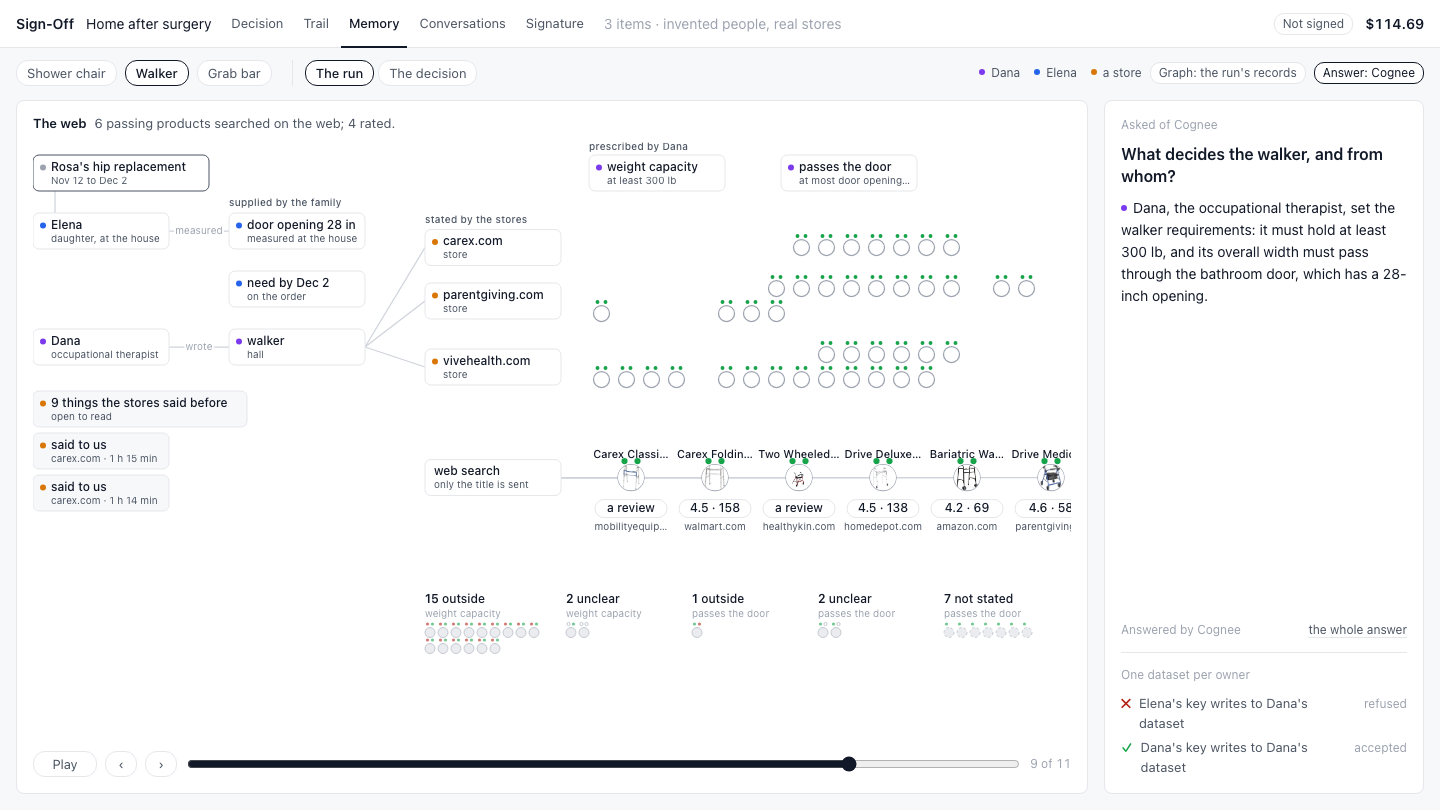
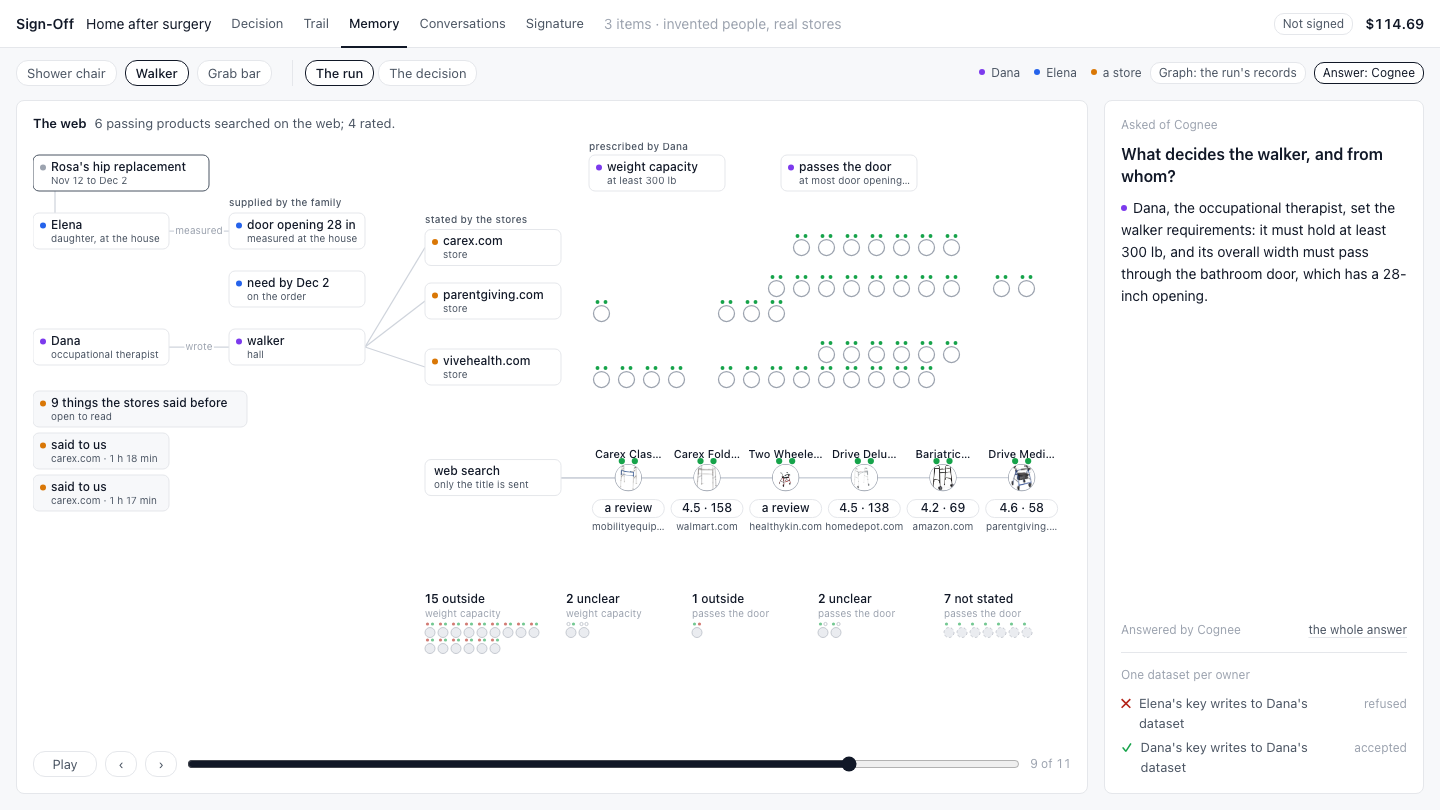
GRAPH: the web row stays inside the canvas

Changed region(s): [[0.4062, 0.5556, 0.75, 0.679]]

diff --git a/web/graph/explore.js b/web/graph/explore.js
@@ -158,7 +158,7 @@ function plan(k) {
     tail.forEach((id, i) => linePos.set(id, { x: leftEdge + Math.floor(i / trows) * tsp, y: ty + (i % trows) * tsp }));
     if (tail.length) texts.push({ x: leftEdge + Math.ceil(tail.length / trows) * tsp + px(8), y: ty + px(8), cls: "gs", html: `${tail.length} more that pass` });
   } else if (webbed) {
-    const step = Math.min(px(120), Math.max(BIGSTEP, (W - PX0) / Math.max(1, searched.length)));
+    const step = Math.min(px(120), (W - PX0 - px(6)) / Math.max(1, searched.length));   // all of them inside the canvas
     searched.forEach((id, i) => linePos.set(id, { x: PX0 + step / 2 + i * step, y: YROW }));
   }
 
@@ -255,7 +255,8 @@ function plan(k) {
       texts.push({ x: p.x, y: p.y - p.r - px(9), cls: "pp big mid", html: esc((n.sub || "").split(" · ")[0]) + (n.picked ? " · the pick" : "") });
     });
   } else if (webbed) {
-    searched.forEach((id) => { const p = P.get(id); if (p.big) texts.push({ x: p.x, y: p.y - RB - px(7), cls: "pn mid", html: esc(short(nodes.get(id).label, 13)) }); });
+    const fit = Math.max(8, Math.floor(Math.min(px(120), (W - PX0 - px(6)) / Math.max(1, searched.length)) / px(6.6)));
+    searched.forEach((id) => { const p = P.get(id); if (p.big) texts.push({ x: p.x, y: p.y - RB - px(7), cls: "pn mid", html: esc(short(nodes.get(id).label, fit)) }); });
   }
   if (asking) (S[iAsk].row || []).forEach((id) => { const p = P.get(id); texts.push({ x: p.x + RB, y: p.y + RB + px(14), cls: "pn end", html: esc(short(nodes.get(id).label, 16)) }); });
   return { P, lines, texts };
